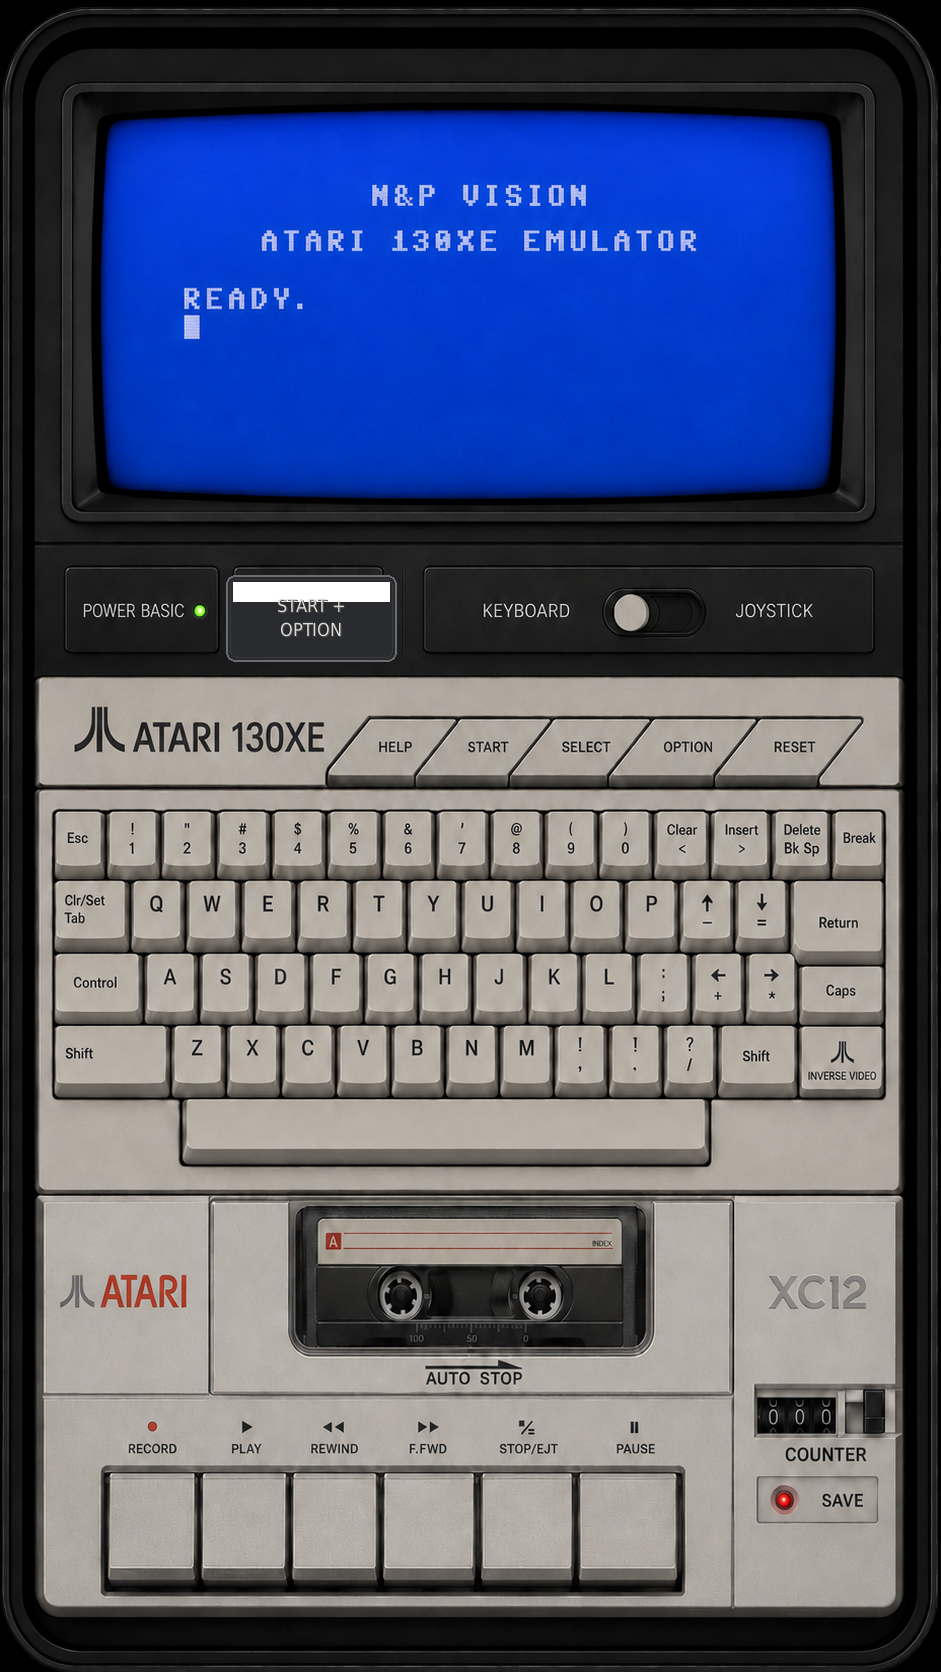
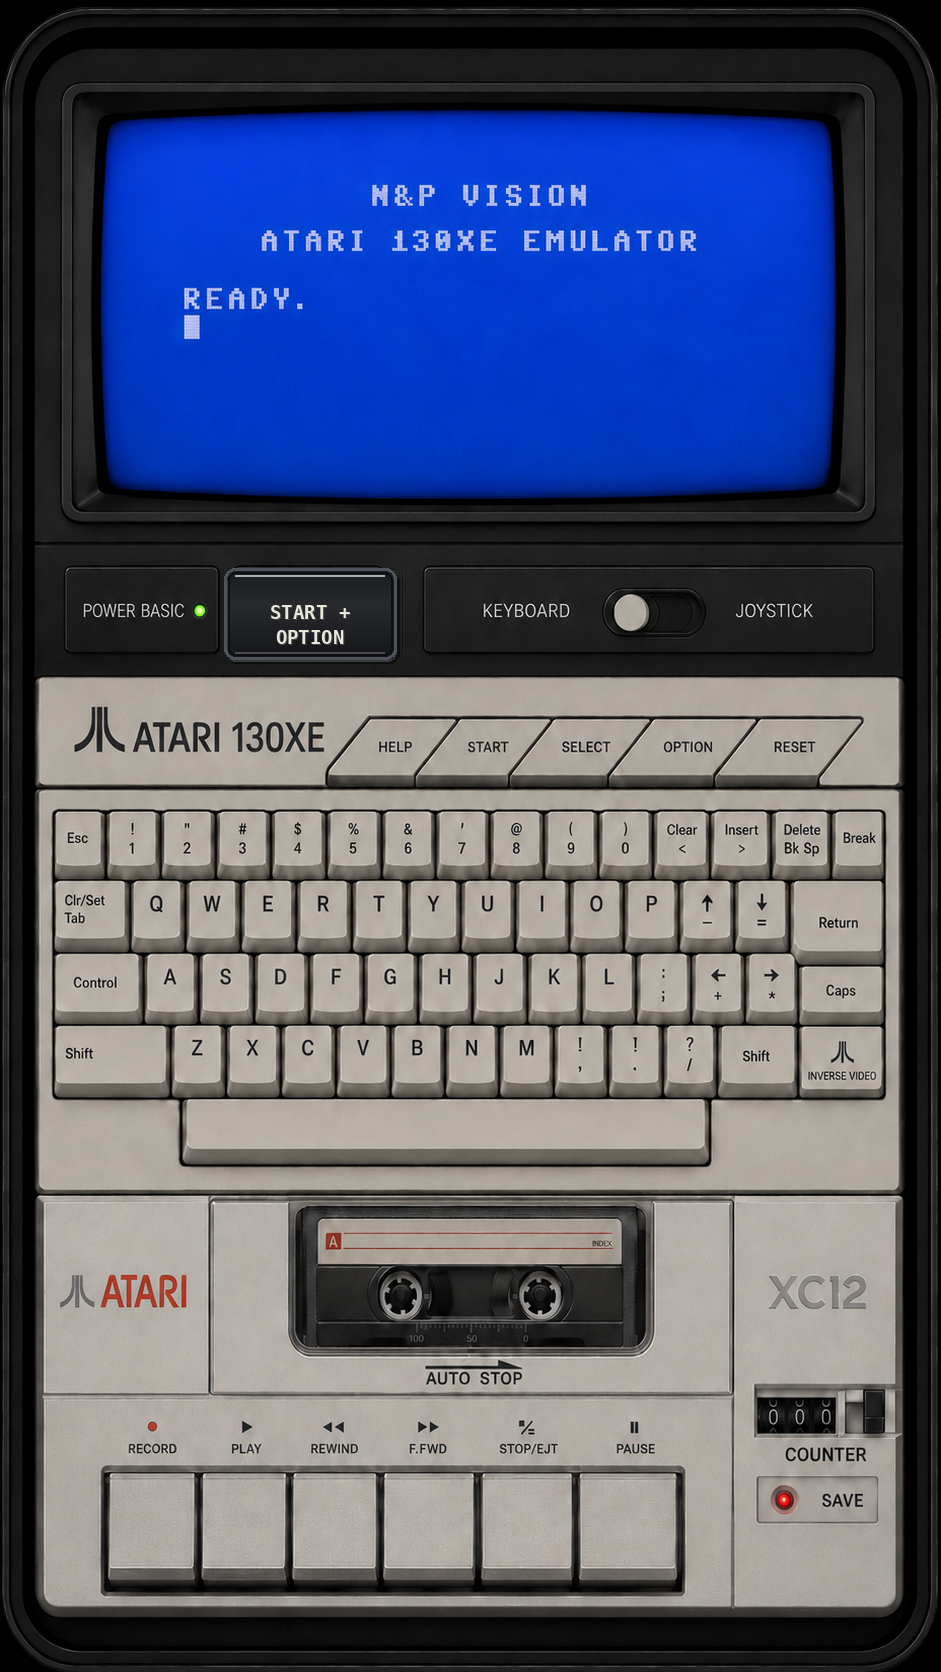
AtariHelp_EMU10_BUILD2FJ_CLEAN_SKIN_FAST_SAFE_TXT_overlay

Changed region(s): [[0.2157, 0.3421, 0.4315, 0.4043]]

diff --git a/app/src/main/assets/emu/index.html b/app/src/main/assets/emu/index.html
@@ -3,7 +3,7 @@
 <head>
 <meta charset="utf-8">
 <meta name="viewport" content="width=device-width, initial-scale=1, user-scalable=no">
-<title>N&P VISION - Atari 130XE Emulator BUILD2FI</title>
+<title>N&P VISION - Atari 130XE Emulator BUILD2FJ</title>
 <style>
 :root{--gold:#f2c464;--blue:#62c8ff;--dark:#050608;--w:941;--h:1672;}
 *{box-sizing:border-box;margin:0;padding:0;-webkit-tap-highlight-color:transparent;}
@@ -23,10 +23,8 @@ canvas#scr{position:absolute;left:0;top:0;width:100% !important;height:100% !imp
 #led.on{background:#63ff34;box-shadow:0 0 8px #63ff34,0 0 19px #63ff34;}@keyframes ledPulse{50%{opacity:.55}}
 /* power / mode controls */
 #btnPower{left:6.8%;top:34.6%;width:16.5%;height:5.1%;}
-#btnSelfTest{left:24.0%;top:34.6%;width:17.5%;height:5.1%;pointer-events:auto;z-index:82;
-  display:block!important;background:rgba(255,200,80,0)!important;color:transparent!important;font-size:0!important;
-  border:0!important;border-radius:0!important;text-shadow:none!important;box-shadow:none!important;padding:0!important;outline:0!important;}
-#btnSelfTest:active,#btnSelfTest.on{background:rgba(255,203,95,0)!important;color:transparent!important;transform:none!important;box-shadow:none!important;}
+#btnSelfTest{left:24.0%;top:34.6%;width:17.5%;height:5.1%;pointer-events:auto;z-index:82;display:block!important;opacity:0!important;background:transparent!important;color:transparent!important;font-size:0!important;border:0!important;border-radius:0!important;text-shadow:none!important;box-shadow:none!important;padding:0!important;outline:0!important;appearance:none!important;-webkit-appearance:none!important;}
+#btnSelfTest:active,#btnSelfTest.on,#btnSelfTest:focus,#btnSelfTest:focus-visible{opacity:0!important;background:transparent!important;color:transparent!important;transform:none!important;box-shadow:none!important;border:0!important;outline:0!important;}
 #btnJoy{left:44.0%;top:34.6%;width:47.8%;height:5.1%;}
 /* Atari function row */
 #btnHelp{left:34.1%;top:43.2%;width:11.4%;height:4.3%;}#btnStart{left:45.6%;top:43.2%;width:11.5%;height:4.3%;}#btnSelect{left:57.1%;top:43.2%;width:12.1%;height:4.3%;}#btnOption{left:69.2%;top:43.2%;width:12.3%;height:4.3%;}#btnReset{left:81.5%;top:43.2%;width:11.2%;height:4.3%;}
@@ -187,7 +185,7 @@ canvas#scr{position:absolute;left:0;top:0;width:100% !important;height:100% !imp
 @media (prefers-reduced-motion:reduce){.scan,.screenSlot:after,#led{animation:none}}
 
 
-/* BUILD2FI: START+OPTION = opravdu jen neviditelna hit-zona nad PNG. Ani pressed/on/active nesmi kreslit dalsi obdelnik. */
+/* BUILD2FJ: START+OPTION = opravdu jen neviditelna hit-zona nad PNG. Ani pressed/on/active nesmi kreslit dalsi obdelnik. */
 #btnSelfTest,#btnSelfTest.cleanHit,
 #btnSelfTest:hover,#btnSelfTest:active,#btnSelfTest:focus,#btnSelfTest:focus-visible,
 #btnSelfTest.pressed,#btnSelfTest.on,#btnSelfTest.flash,#btnSelfTest.down{
@@ -254,7 +252,7 @@ canvas#scr{position:absolute;left:0;top:0;width:100% !important;height:100% !imp
 <div id="miniLog"></div>
 <div id="txtOverlay" class="overlay" aria-label="Vlozeni BASIC TXT kodu">
   <h2>VLOZIT TXT / BASIC KOD</h2>
-  <div class="hint">Sem vloz BASIC/Turbo BASIC kod. VLOZIT DO ATARI jen zapise program. VLOZIT + RUN po zapisu automaticky posle RUN. BUILD2FI pise pomaleji, ale bezpecneji.</div>
+  <div class="hint">Sem vloz BASIC/Turbo BASIC kod. VLOZIT DO ATARI jen zapise program. VLOZIT + RUN po zapisu automaticky posle RUN. BUILD2FJ pise pomaleji, ale bezpecneji.</div>
   <div class="row"><button id="btnTxtGo">VLOZIT DO ATARI</button><button id="btnTxtRun">VLOZIT + RUN</button><button id="btnTxtFile" class="dark">NAHRAJ TXT SOUBOR</button><button id="btnTxtClear" class="dark">SMAZAT TEXT</button><button id="btnTxtClose" class="danger">ZAVRIT</button></div>
   <label style="display:flex;gap:8px;align-items:center;"><input type="checkbox" id="chkNew" checked>NEW pred vlozenim programu</label>
   <textarea id="txtIn" autocomplete="off" autocorrect="off" autocapitalize="off" spellcheck="false" placeholder="10 PRINT &quot;ATARIHELP&quot;&#10;20 FOR I=1 TO 5&#10;30 PRINT I&#10;40 NEXT I"></textarea>
@@ -2195,14 +2193,14 @@ window.EMU10={ createMachine:function(){ return Atari130XE(b64u8(EMU10_OS_B64), 
     }catch(_e){}
   }
 
-  // ---------- vkladani TXT (BUILD2FI: navrat na pomalejsi klasicky IRQ rezim + jisty RETURN/RUN) ----------
+  // ---------- vkladani TXT (BUILD2FJ: FAST SAFE IRQ rezim - rychlejsi nez FI, porad bez RAM injectu) ----------
   var typeQ=[], typeWait=0, typeHold=0, typeCurrent=null, typeSent=0, typeTotal=0, typeDoneLogged=true;
-  var typeLineIndex=0, typeLineTotal=0, typeChWait=0, typeLastLineLogged=0, typeBuildName='BUILD2FI';
+  var typeLineIndex=0, typeLineTotal=0, typeChWait=0, typeLastLineLogged=0, typeBuildName='BUILD2FJ';
   function clearTypeQueue(reason){
     typeQ.length=0; typeWait=0; typeHold=0; typeCurrent=null; typeSent=0; typeTotal=0; typeDoneLogged=true;
     typeLineIndex=0; typeLineTotal=0; typeChWait=0; typeLastLineLogged=0;
     try{ if(M) M.keyUp(); }catch(_e){}
-    if(reason) log('VLOZIT TXT BUILD2FI: fronta vycistena - '+reason);
+    if(reason) log('VLOZIT TXT BUILD2FJ: fronta vycistena - '+reason);
   }
   function pushTypeScan(sc, meta){
     meta=meta||{}; meta.sc=sc&0xFF; typeQ.push(meta);
@@ -2213,7 +2211,7 @@ window.EMU10={ createMachine:function(){ return Atari130XE(b64u8(EMU10_OS_B64), 
     clearTypeQueue('novy text');
     var skipped=0, lineNo=1, visibleLines=0;
     text=String(text||'').replace(/\r/g,'');
-    // BUILD2FI: kdyz posledni radek nema ENTER, pridam ho. Bez toho BASIC/TBXL posledni radek nemusi potvrdit.
+    // BUILD2FJ: kdyz posledni radek nema ENTER, pridam ho. Bez toho BASIC/TBXL posledni radek nemusi potvrdit.
     if(text.length && text[text.length-1] !== '\n' && text[text.length-1] !== '\x01' && text[text.length-1] !== '\x02') text+='\n';
     var lineBuf='';
     function flushReturn(label,longWait){
@@ -2246,15 +2244,15 @@ window.EMU10={ createMachine:function(){ return Atari130XE(b64u8(EMU10_OS_B64), 
     }
     typeTotal=typeQ.length; typeSent=0; typeDoneLogged=(typeTotal===0);
     typeLineTotal=visibleLines; typeLineIndex=0;
-    log('VLOZIT TXT BUILD2FI: pripraveno '+typeTotal+' stisku / '+visibleLines+' radku. CLASSIC SAFE rezim: pomalejsi nez FG/FH, po kazdem znaku a RETURN cekam na CH $02FC. Posledni radek dostane ENTER automaticky. Zadny RAM inject.'+(skipped?(' Preskoceno '+skipped+' neznamych znaku.'):'') );
-    if(typeTotal===0) log('VLOZIT TXT BUILD2FI: nic k vlozeni.');
+    log('VLOZIT TXT BUILD2FJ: pripraveno '+typeTotal+' stisku / '+visibleLines+' radku. FAST SAFE rezim: po kazde klavese hlidam CH $02FC, ale pauzy jsou zkracene. Posledni radek dostane ENTER automaticky. Zadny RAM inject.'+(skipped?(' Preskoceno '+skipped+' neznamych znaku.'):'') );
+    if(typeTotal===0) log('VLOZIT TXT BUILD2FJ: nic k vlozeni.');
   }
   function machineChEmpty(){
     try{ if(M && typeof M.chEmpty==='function') return M.chEmpty(); }catch(_e){}
     return true;
   }
   function typeStep(){
-    // BUILD2FI: zamerne pomalejsi a stabilni. Nehonim rychlost, nejdriv musi program jit LIST/RUN.
+    // BUILD2FJ: rychlejsi SAFE rezim. Ne blokove FG, porad jednotlive klavesy pres IRQ + CH guard.
     if(!M){ clearTypeQueue('neni machine'); return; }
     if(typeWait>0){ typeWait--; return; }
     if(typeCurrent!==null){
@@ -2263,17 +2261,17 @@ window.EMU10={ createMachine:function(){ return Atari130XE(b64u8(EMU10_OS_B64), 
       var done=typeCurrent; typeCurrent=null;
       if(done.kind==='return'){
         typeLineIndex++;
-        var wait=done.longWait?220:80; // BUILD2FI: delsi dobeh po radku; RUN/CSAVE/CLOAD jeste delsi
+        var wait=done.longWait?170:48; // BUILD2FJ: rychlejsi, ale stale nechava BASIC/TBXL tokenizovat radek
         typeWait=wait;
         if(typeLineIndex===1 || typeLineIndex===typeLineTotal || (typeLineIndex%5)===0 || done.longWait){
-          log('VLOZIT TXT BUILD2FI: TXT LINE '+typeLineIndex+'/'+typeLineTotal+' '+(done.label||'RETURN')+' odeslan, cekam BASIC/TBXL '+wait+' kroku.');
+          log('VLOZIT TXT BUILD2FJ: TXT LINE '+typeLineIndex+'/'+typeLineTotal+' '+(done.label||'RETURN')+' odeslan, cekam BASIC/TBXL '+wait+' kroku.');
         }
       } else {
-        typeWait=6; // klasicky oddech po znaku, ne FG turbo blok
+        typeWait=2; // BUILD2FJ: rychlejsi znakovy oddech, porad s CH $02FC ochranou
       }
       if(!typeQ.length && typeSent>=typeTotal && !typeDoneLogged){
         typeDoneLogged=true;
-        log('VLOZIT TXT BUILD2FI: QUEUE COMPLETE - vsechny znaky/radky odeslany pres klavesove IRQ, bez RAM injectu. Ted pouzij LIST/RUN nebo tlacitko VLOZIT + RUN.');
+        log('VLOZIT TXT BUILD2FJ: QUEUE COMPLETE - vsechny znaky/radky odeslany pres klavesove IRQ, bez RAM injectu. Ted pouzij LIST/RUN nebo tlacitko VLOZIT + RUN.');
       }
       return;
     }
@@ -2281,18 +2279,18 @@ window.EMU10={ createMachine:function(){ return Atari130XE(b64u8(EMU10_OS_B64), 
     if(!machineChEmpty()){
       typeChWait++;
       if(typeChWait===1 || (typeChWait%80)===0){
-        log('VLOZIT TXT BUILD2FI: cekam na prazdny CH $02FC pred dalsi klavesou, line '+(typeQ[0]&&typeQ[0].line?typeQ[0].line:'?')+'.');
+        log('VLOZIT TXT BUILD2FJ: cekam na prazdny CH $02FC pred dalsi klavesou, line '+(typeQ[0]&&typeQ[0].line?typeQ[0].line:'?')+'.');
       }
       return;
     }
     typeChWait=0;
     var it=typeQ.shift();
-    try{ M.keyDown(it.sc&0xFF); }catch(e){ log('VLOZIT TXT BUILD2FI: keyDown chyba - '+e.message); clearTypeQueue('chyba keyDown'); return; }
-    typeCurrent=it; typeHold=4; typeSent++;
+    try{ M.keyDown(it.sc&0xFF); }catch(e){ log('VLOZIT TXT BUILD2FJ: keyDown chyba - '+e.message); clearTypeQueue('chyba keyDown'); return; }
+    typeCurrent=it; typeHold=2; typeSent++;
     if(it.kind==='return'){
       // RETURN logujeme az po keyUp, aby bylo jasne, ze ho BASIC/TBXL dostal do fronty
     } else if(typeSent===1 || typeSent===typeTotal || (typeSent%40)===0){
-      log('VLOZIT TXT BUILD2FI: znak '+typeSent+'/'+typeTotal+' line '+it.line+' scan=$'+((it.sc&255).toString(16).toUpperCase()).padStart(2,'0')+'.');
+      log('VLOZIT TXT BUILD2FJ: znak '+typeSent+'/'+typeTotal+' line '+it.line+' scan=$'+((it.sc&255).toString(16).toUpperCase()).padStart(2,'0')+'.');
     }
   }
 
@@ -3169,7 +3167,7 @@ window.EMU10={ createMachine:function(){ return Atari130XE(b64u8(EMU10_OS_B64), 
     try{ document.documentElement.style.overflowY='auto'; document.body.style.overflowY='auto'; }catch(_e){}
     var targetY = (/VLOZIT/.test(reason||'')) ? 0 : (txtOverlayLastScrollY||window.scrollY||0);
     try{ window.scrollTo({top:targetY,left:0,behavior:'auto'}); }catch(_e){ try{ window.scrollTo(0,targetY); }catch(__e){} }
-    if(reason) log('TXT RAMECEK BUILD2FI: zavreno/odeslano - '+reason+'. Scroll stranky je znovu povolen'+((/VLOZIT/.test(reason||''))?' a obraz je posunuty nahoru k Atari obrazovce.':'.'));
+    if(reason) log('TXT RAMECEK BUILD2FJ: zavreno/odeslano - '+reason+'. Scroll stranky je znovu povolen'+((/VLOZIT/.test(reason||''))?' a obraz je posunuty nahoru k Atari obrazovce.':'.'));
   }
   function openTxtOverlay(){
     txtOverlayLastScrollY = window.scrollY || document.documentElement.scrollTop || document.body.scrollTop || 0;
@@ -3177,7 +3175,7 @@ window.EMU10={ createMachine:function(){ return Atari130XE(b64u8(EMU10_OS_B64), 
     if(o) o.style.display='flex';
     try{ document.documentElement.style.overflowY='auto'; document.body.style.overflowY='auto'; }catch(_e){}
     setTimeout(function(){ var ta=document.getElementById('txtIn'); if(ta){ ta.focus(); try{ ta.setSelectionRange(ta.value.length,ta.value.length); }catch(_e){} } },60);
-    log('TXT RAMECEK BUILD2FI: otevren. Ctrl+V funguje, overlay ma vlastni scroll. Po VLOZIT se focus uvolni a stranka jde zase posouvat.');
+    log('TXT RAMECEK BUILD2FJ: otevren. Ctrl+V funguje, overlay ma vlastni scroll. Po VLOZIT se focus uvolni a stranka jde zase posouvat.');
   }
   function openTextPicker(){
     log('TXT: oteviram mobilni Downloads / Vyber BASIC nebo Turbo BASIC textu.');
@@ -3629,34 +3627,34 @@ window.EMU10={ createMachine:function(){ return Atari130XE(b64u8(EMU10_OS_B64), 
     safeTap('dockMenu',function(){ pressAnim('dockMenu',220); try{ window.location.href='../index.html'; }catch(e){ log('MENU chyba: '+e.message); } });
     safeTap('btnHelpPanel',function(){ pressAnim('btnHelpPanel',220); var ov=document.getElementById('helpOverlay'); if(ov){ ov.style.display='flex'; ov.setAttribute('aria-hidden','false'); } });
     function txtToAtari(text,runAfter){
-      if(!text){ log('TXT RAMECEK BUILD2FI: prazdny ramecek, nic nevkladam.'); return; }
+      if(!text){ log('TXT RAMECEK BUILD2FJ: prazdny ramecek, nic nevkladam.'); return; }
       var pre=document.getElementById('chkNew').checked ? 'NEW\x01' : '';
       var body=text.replace(/\r/g,'').replace(/\n*$/,'\n');
       if(runAfter) body+='RUN\x02';
       queueText(pre + body);
-      log('TXT RAMECEK BUILD2FI: vlozeno do aktivni fronty '+body.length+' znaku'+(runAfter?' + RUN s delsim RETURN dobehem':'')+'. Sleduj Atari obraz, text se pise bezpecnym IRQ rezimem; je pomalejsi nez FG, ale nema ztracet radky.');
+      log('TXT RAMECEK BUILD2FJ: vlozeno do aktivni fronty '+body.length+' znaku'+(runAfter?' + RUN s delsim RETURN dobehem':'')+'. Sleduj Atari obraz, text se pise bezpecnym IRQ rezimem; rychlejsi nez FI, ale porad hlida CH a RETURN dobeh.');
     }
     safeTap('btnTxtGo',function(){
       var ta=document.getElementById('txtIn');
-      log('TXT RAMECEK BUILD2FI: stisk VLOZIT DO ATARI, delka='+(ta&&ta.value?ta.value.length:0)+' znaku.');
+      log('TXT RAMECEK BUILD2FJ: stisk VLOZIT DO ATARI, delka='+(ta&&ta.value?ta.value.length:0)+' znaku.');
       closeTxtOverlay('VLOZIT DO ATARI');
       txtToAtari(ta?ta.value:'',false);
     });
     safeTap('btnTxtRun',function(){
       var ta=document.getElementById('txtIn');
-      log('TXT RAMECEK BUILD2FI: stisk VLOZIT + RUN, delka='+(ta&&ta.value?ta.value.length:0)+' znaku.');
+      log('TXT RAMECEK BUILD2FJ: stisk VLOZIT + RUN, delka='+(ta&&ta.value?ta.value.length:0)+' znaku.');
       closeTxtOverlay('VLOZIT + RUN');
       txtToAtari(ta?ta.value:'',true);
     });
     safeTap('btnTxtClear',function(){
       var ta=document.getElementById('txtIn'); if(ta){ ta.value=''; ta.focus(); }
-      log('TXT RAMECEK BUILD2FI: textovy ramecek smazan.');
+      log('TXT RAMECEK BUILD2FJ: textovy ramecek smazan.');
     });
     safeTap('btnTxtFile',function(){
       closeTxtOverlay('NAHRAJ TXT SOUBOR');
       pickFile('.txt,.lst,.bas',function(n,u8){
         var text=''; for(var i=0;i<u8.length;i++){ var b=u8[i]; if(b===0x9B){text+='\n';continue;} text+=String.fromCharCode(b); } // ATASCII EOL -> \n
-        log('NAHRAJ TXT BUILD2FI: '+n+' ('+u8.length+' B) - piseme do BASICu pres klavesove IRQ v bezpecnem rezimu.');
+        log('NAHRAJ TXT BUILD2FJ: '+n+' ('+u8.length+' B) - piseme do BASICu pres klavesove IRQ v bezpecnem rezimu.');
         txtToAtari(text);
       });
     });
@@ -3707,9 +3705,9 @@ window.EMU10={ createMachine:function(){ return Atari130XE(b64u8(EMU10_OS_B64), 
     buildOSK(document.getElementById('osk'));
     bindKeyboard();
     updateTapeCounter();
-    log('AtariHelp.eu EMU-10 BUILD2FI_CLEAN_HITZONES_CLASSIC_SAFE_TXT pripraven.');
-    log('BUILD2FI: START+OPTION a EMULATOR jsou tvrde neviditelne hit-zony: opacity 0, zadny pressed/on/flash obdelnik pres PNG.');
-    log('BUILD2FI: TXT zapis vracen do pomaleho CLASSIC SAFE rezimu: posledni radek dostane ENTER, RUN/CSAVE/CLOAD maji delsi dobeh.');
+    log('AtariHelp.eu EMU-10 BUILD2FJ_CLEAN_SKIN_FAST_SAFE_TXT pripraven.');
+    log('BUILD2FJ: START+OPTION a EMULATOR jsou tvrde neviditelne hit-zony: opacity 0, zadny pressed/on/flash obdelnik pres PNG.');
+    log('BUILD2FJ: TXT zapis vracen do FAST SAFE rezimu: posledni radek dostane ENTER, RUN/CSAVE/CLOAD maji delsi dobeh.');
     requestAnimationFrame(tick);
     if(!AH_AUTORUN_FROM_NET){ setTimeout(function(){ var p=document.getElementById('btnPower'); if(p) p.click(); }, 120); } else { log('NET AUTORUN: auto POWER BASIC vypnut, cekam na soubor z webu.'); }
   });

diff --git a/app/src/main/assets/index.html b/app/src/main/assets/index.html
@@ -3,7 +3,7 @@
 <head>
 <meta charset="utf-8">
 <meta name="viewport" content="width=device-width, initial-scale=1, user-scalable=no">
-<title>N&P VISION — AtariHelp.eu EMU-10 BUILD2FI</title>
+<title>N&P VISION — AtariHelp.eu EMU-10 BUILD2FJ</title>
 <style>
 :root{--gold:#f3c465;--blue:#6cc9ff;--dark:#060709;--w:941;--h:1672;}
 *{box-sizing:border-box;margin:0;padding:0;-webkit-tap-highlight-color:transparent;}
@@ -95,7 +95,7 @@ body{display:flex;justify-content:center;align-items:flex-start;overflow-x:hidde
 #introTapeFwd{left:56.6%;top:65.70%;width:10.9%;height:4.55%;}
 #introTapePause{left:67.8%;top:65.70%;width:10.9%;height:4.55%;}
 
-/* BUILD2FI: EMULATOR je jen neviditelna klikaci zona nad PNG. Zadna dalsi kreslena vrstva, zadne tlacitko pres tlacitko. */
+/* BUILD2FJ: EMULATOR je jen neviditelna klikaci zona nad PNG. Zadna dalsi kreslena vrstva, zadne tlacitko pres tlacitko. */
 #goTape{
   left:40.1%;top:75.5%;width:31.5%;height:7.25%;z-index:30;
   display:block!important;background:rgba(255,196,90,0)!important;border:0!important;
@@ -108,7 +108,7 @@ body{display:flex;justify-content:center;align-items:flex-start;overflow-x:hidde
 
 
 
-/* BUILD2FI: EMULATOR = opravdu jen neviditelna hit-zona. Zadny hover/active/flash/down/pressed nesmi kreslit dalsi tlacitko pres PNG. */
+/* BUILD2FJ: EMULATOR = opravdu jen neviditelna hit-zona. Zadny hover/active/flash/down/pressed nesmi kreslit dalsi tlacitko pres PNG. */
 #goTape,#goTape.cleanHit,
 #goTape:hover,#goTape:active,#goTape:focus,#goTape:focus-visible,
 #goTape.flash,#goTape.down,#goTape.pressed,#goTape.on{
@@ -441,7 +441,7 @@ var introHelpBtn=$('introHelpBtn'), introHelpOverlay=$('introHelpOverlay'), intr
 if(introHelpBtn && introHelpOverlay){ bind('introHelpBtn', function(){ press('introHelpBtn',220); introHelpOverlay.classList.add('open'); introHelpOverlay.setAttribute('aria-hidden','false'); }); }
 if(introHelpClose && introHelpOverlay){ introHelpClose.addEventListener('click', function(){ introHelpOverlay.classList.remove('open'); introHelpOverlay.setAttribute('aria-hidden','true'); }); }
 log('BUILD2AQ: MP3 PRIDAT nyni nacita/pripojuje skladby do playlistu; EJECT maze playlist.');
-log('BUILD2FI: intro EMULATOR hit-zona ma opacity 0 ve vsech stavech - zadny graficky overlay pres PNG.');
+log('BUILD2FJ: intro EMULATOR hit-zona ma opacity 0 ve vsech stavech - zadny graficky overlay pres PNG.');
 })();
 </script>
 </body>
